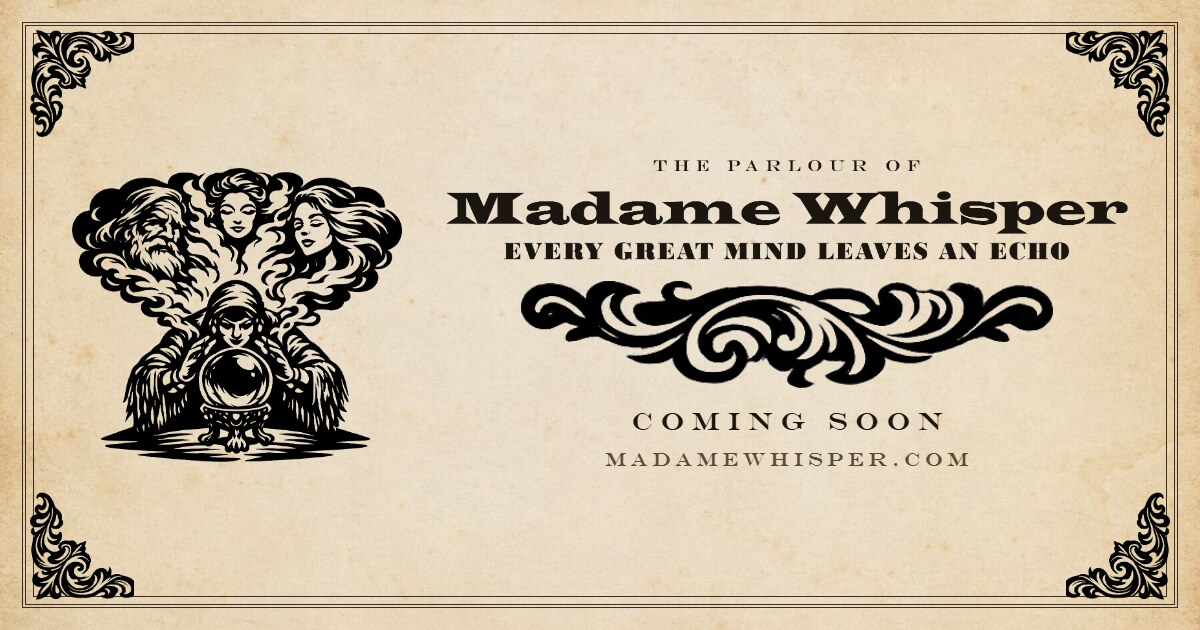
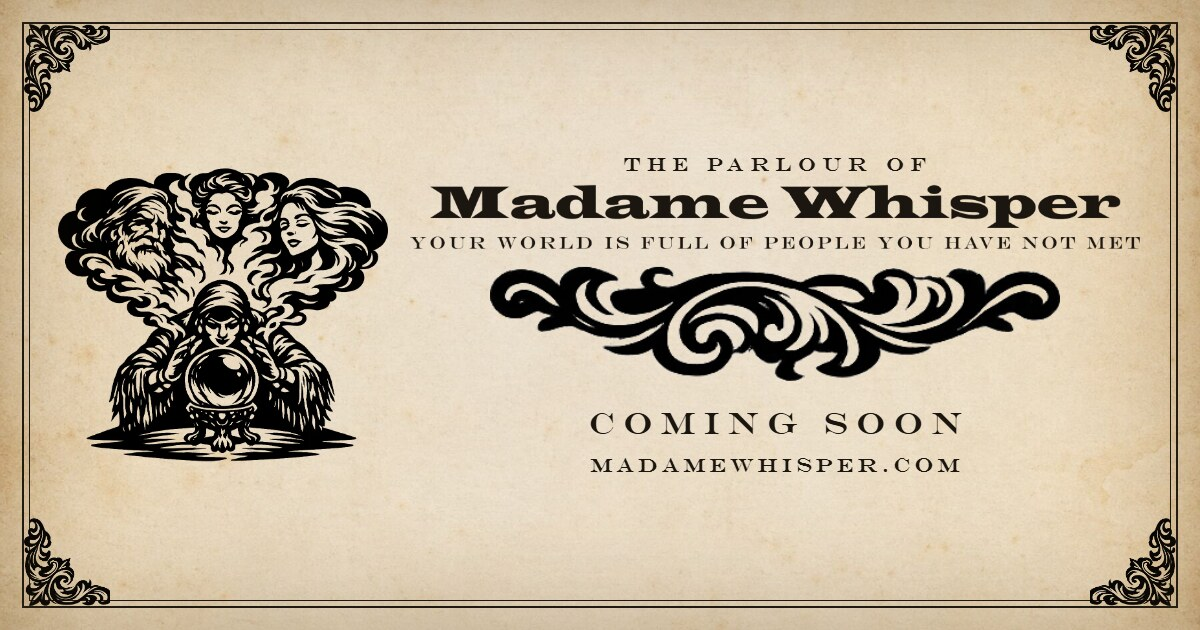
Reposition for game masters: fiction-first, dossier-led
Madame Whisper mediates reality and fantasy, not life and death. The
seance is the method, not the subject; the historical lane belongs to
Dead Thinkers. Retires "Name anyone. She will fetch them.", which
described both products at once.

- Masthead plate re-rendered: "Your world is full of people you have
  not met"
- Beats rewritten around the mechanism: plot the mind across one
  hundred dials, then derive the life that explains them
- Story panel targets the documented GM pain: the NPC who stops being
  a person and becomes you doing a voice
- Cabinet recast from seven historical philosophers to six original
  characters; philosopher cameos deleted
- New section "You Leave With the File" - the dossier at three depths,
  so the page sells a product rather than a conversation
- Disclosure now states she does not write your story or run your game
- OG card rebuilt with the new masthead; cache-buster bumped to ?3

Changed region(s): [[0.0, 0.0, 1.0, 1.0], [0.4933, 0.7238, 0.8017, 0.754]]

diff --git a/index.html b/index.html
@@ -20,21 +20,21 @@
     gtag('event', 'signup_complete', { method: 'kit', form_id: '9730404' });
   }
 </script>
-<title>Madame Whisper — Every great mind leaves an echo</title>
-<meta name="description" content="Name anyone. She will fetch them. Madame Whisper summons the great minds of history and fiction for a conversation you can argue with. Coming soon.">
+<title>Madame Whisper — She brings the fantasy to life</title>
+<meta name="description" content="For game masters and world builders. Summon a character who does not exist yet, interview them until they surprise you, and leave with a dossier your table will believe. Coming soon.">
 <meta property="og:title" content="Madame Whisper">
-<meta property="og:description" content="Name anyone. She will fetch them. Coming soon.">
+<meta property="og:description" content="Summon a character who does not exist yet. Interview them until they surprise you. Leave with the dossier. Coming soon.">
 <meta property="og:type" content="website">
 <meta property="og:url" content="https://madamewhisper.com/">
 <meta property="og:site_name" content="Madame Whisper">
-<meta property="og:image" content="https://madamewhisper.com/assets/og-card.jpg?1">
+<meta property="og:image" content="https://madamewhisper.com/assets/og-card.jpg?3">
 <meta property="og:image:width" content="1200">
 <meta property="og:image:height" content="630">
 <meta property="og:image:alt" content="Madame Whisper — a Victorian medium over her crystal ball, three faces rising in the smoke. Coming soon.">
 <meta name="twitter:card" content="summary_large_image">
 <meta name="twitter:title" content="Madame Whisper">
-<meta name="twitter:description" content="Name anyone. She will fetch them. Coming soon.">
-<meta name="twitter:image" content="https://madamewhisper.com/assets/og-card.jpg?1">
+<meta name="twitter:description" content="Summon a character who does not exist yet. Interview them until they surprise you. Leave with the dossier. Coming soon.">
+<meta name="twitter:image" content="https://madamewhisper.com/assets/og-card.jpg?3">
 <meta name="theme-color" content="#efe3c8">
 <link rel="icon" href="/favicon.ico?2" sizes="any">
 <link rel="icon" type="image/png" sizes="32x32" href="/assets/favicon-32.png?2">
@@ -114,6 +114,7 @@ img{max-width:100%;height:auto;display:block}
 .type--cabinet{width:min(100%,26rem)}
 .type--soon{width:min(100%,17rem)}
 .type--beats{width:min(100%,15rem)}
+.type--leavewith{width:min(100%,26rem)}
 
 .ornrule{margin:1.1rem auto;width:min(80%,22rem);mix-blend-mode:multiply}
 .ornrule--wide{width:min(90%,30rem)}
@@ -303,7 +304,7 @@ footer{
          alt="Welcome to the Parlour of">
     <img class="orb" src="assets/mark-orb-print.webp" alt="">
     <img class="type type--masthead" src="assets/type-masthead.webp"
-         alt="Madame Whisper — every great mind leaves an echo">
+         alt="Madame Whisper — your world is full of people you have not met">
     <img class="ornrule" src="assets/orn/rule-scroll.webp" alt="">
     <img class="hero" src="assets/hero-medium-print.webp"
          alt="A Victorian medium at her table, hands around a crystal ball, three faces forming in the rising smoke">
@@ -318,23 +319,24 @@ footer{
       <div class="beat">
         <span class="n">I</span>
         <div>
-          <h3>Name your guest</h3>
-          <p><em>“I should like to speak with Machiavelli.”</em></p>
+          <h3>Name someone who does not exist</h3>
+          <p><em>“The magistrate. The one who can be bought but not bribed.”</em></p>
         </div>
       </div>
       <div class="beat">
         <span class="n">II</span>
         <div>
           <h3>She parts the veil</h3>
-          <p>The smoke gathers. The Madame does her work. Your guest arrives.</p>
+          <p>The mind is plotted across one hundred dials — then the life that would
+             have produced it. Every wound answers for a trait, or it is not kept.</p>
         </div>
       </div>
       <div class="beat">
         <span class="n">III</span>
         <div>
-          <h3>Then you simply talk</h3>
-          <p>Argue with them. Scheme with them. Ask what they never wrote down.
-             They answer in their own voice — not from a script.</p>
+          <h3>Interview them until they surprise you</h3>
+          <p>Press him. Lie to him. Offer him money and watch him take offence.
+             Then leave with the file — and run him on Friday.</p>
         </div>
       </div>
     </div>
@@ -342,10 +344,12 @@ footer{
     <img class="ornrule ornrule--wide" src="assets/orn/rule-star.webp" alt="">
 
     <p class="story">
-      <span class="drop">Y</span>ou have read what they wrote. You have argued with them in your head
-      on the walk home. Madame Whisper is that argument with the other chair filled — by a Florentine
-      schemer, by a general who won before the fighting started, by a philosopher who will not let a
-      loose definition pass. Name anyone. She will fetch them.
+      <span class="drop">Y</span>ou have his name, his trade, and three lines of history. You know he
+      keeps the inn and waters the ale. Then on Friday your players ask him something you never
+      prepared for — and he stops being a man and becomes you, doing a voice. Every game master has
+      sat a character down and interviewed them, and every one has done it alone, in both chairs.
+      Madame Whisper is that interview with the other chair filled. You will never again run a
+      character who sounds like you.
     </p>
   </section>
 
@@ -358,66 +362,101 @@ footer{
 
     <div class="cast">
       <div class="mind">
-        <figure><img src="assets/cameo/aristotle.webp" alt="Aristotle"></figure>
-        <h4>Aristotle</h4>
-        <div class="where">Athens · 335 BC</div>
-        <p>Bring him a question you think you have settled. He will take it apart into the four
-           things you actually meant.</p>
+        <figure><img src="assets/cameo/snodd.webp" alt="Lord Snodd"></figure>
+        <h4>Lord Snodd</h4>
+        <div class="where">the estate, and the debt against it</div>
+        <p>He will receive you courteously and concede nothing. Ask him what the title cost his
+           father, and watch him decide how much of it you are owed.</p>
       </div>
 
       <div class="mind">
-        <figure><img src="assets/cameo/machiavelli.webp" alt="Niccolò Machiavelli"></figure>
-        <h4>Niccolò Machiavelli</h4>
-        <div class="where">Florence · 1513</div>
-        <p>Argue power with the man who wrote the book on it. He will not flatter you, and he will
-           not pretend the question is easy.</p>
+        <figure><img src="assets/cameo/vess.webp" alt="Alcyne Vess"></figure>
+        <h4>Alcyne Vess</h4>
+        <div class="where">warden of the barrow — died first, kept the post</div>
+        <p>She has guarded the same door for four hundred years and remembers every party that
+           came through it. She will ask after people you have never heard of.</p>
       </div>
 
       <div class="mind">
-        <figure><img src="assets/cameo/suntzu.webp" alt="Sun Tzu"></figure>
-        <h4>Sun Tzu</h4>
-        <div class="where">The state of Wu · 5th c. BC</div>
-        <p>Bring him a conflict — a campaign, a rivalry, a negotiation. He will show you where it was
-           decided, long before the fighting.</p>
+        <figure><img src="assets/cameo/ash.webp" alt="Corwin Ash"></figure>
+        <h4>Corwin Ash</h4>
+        <div class="where">the forge on Cutler's Row</div>
+        <p>He shoes the Watch's horses, so he hears everything and repeats none of it. Offer him
+           coin and he will finish the shoe before he answers you.</p>
       </div>
 
       <div class="mind">
-        <figure><img src="assets/cameo/plato.webp" alt="Plato"></figure>
-        <h4>Plato of Athens</h4>
-        <div class="where">The Academy · 380 BC</div>
-        <p>Ask him what a thing really is. Then discover you have agreed to something you did not
-           intend, three questions ago.</p>
+        <figure><img src="assets/cameo/dain.webp" alt="Magistrate Iver Dain"></figure>
+        <h4>Magistrate Iver Dain</h4>
+        <div class="where">the Assizes — buyable, not bribable</div>
+        <p>There is a price, and it is never money. Find what he wants and the law bends; offer
+           him a purse and you will meet the other magistrate entirely.</p>
       </div>
 
       <div class="mind">
-        <figure><img src="assets/cameo/alexander.webp" alt="Alexander the Great"></figure>
-        <h4>Alexander the Great</h4>
-        <div class="where">Babylon · 323 BC</div>
-        <p>He had the world at thirty and no idea what to do next. Ask him whether it was worth
-           what it cost.</p>
+        <figure><img src="assets/cameo/cole.webp" alt="Sister Renna Cole"></figure>
+        <h4>Sister Renna Cole</h4>
+        <div class="where">the crypt beneath St. Ilde's</div>
+        <p>She knows what is down there and has not told the diocese. Ask her why she stays, and
+           she will tell you it is not faith.</p>
       </div>
 
       <div class="mind">
-        <figure><img src="assets/cameo/franklin.webp" alt="Benjamin Franklin"></figure>
-        <h4>Benjamin Franklin</h4>
-        <div class="where">Philadelphia · 1776</div>
-        <p>Printer, diplomat, and the most useful man in any room. Ask him how to get something
-           difficult agreed to.</p>
-      </div>
-
-      <div class="mind">
-        <figure><img src="assets/cameo/jung.webp" alt="Carl Jung"></figure>
-        <h4>Carl Jung</h4>
-        <div class="where">Küsnacht · 1935</div>
-        <p>Tell him the dream you still remember. He will want to know what you have refused to
-           look at.</p>
+        <figure><img src="assets/cameo/frayne.webp" alt="Elsbeth Frayne"></figure>
+        <h4>Elsbeth Frayne</h4>
+        <div class="where">keeps the tallies, remembers what was promised</div>
+        <p>Everyone tells her the truth because she only writes numbers down. She knows who owes
+           whom, and she has known for years.</p>
       </div>
     </div>
 
     <div class="more">
       <img src="assets/orn/manicule.webp" alt="">
-      <span>…and anyone else you care to name.</span>
+      <span>…and whoever else your world is waiting on.</span>
       <img class="flip" src="assets/orn/manicule.webp" alt="">
+    </div>
+  </section>
+
+  <!-- ══ what you leave with ══ -->
+  <section id="dossier">
+    <img class="ornrule ornrule--wide" src="assets/orn/rule-star2.webp" alt="">
+    <div class="sect-head">
+      <img class="type type--leavewith" src="assets/type-leavewith.webp"
+           alt="And when it is done — you leave with the file">
+    </div>
+
+    <p class="story">
+      <span class="drop">S</span>he does not hand you a chat log. She hands you a dossier: who he is,
+      what he wants, what it cost him, how he speaks, who he would betray, and precisely how he comes
+      apart when your players lie to him. Written in his own voice, and unreliable in the places a
+      man is unreliable about himself.
+    </p>
+
+    <div class="beats">
+      <div class="beat">
+        <span class="n">I</span>
+        <div>
+          <h3>The Calling Card</h3>
+          <p>One page. What he wants, what he fears, how he sounds, and the single thing to
+             remember. This is what sits at your elbow on Friday.</p>
+        </div>
+      </div>
+      <div class="beat">
+        <span class="n">II</span>
+        <div>
+          <h3>The Standing File</h3>
+          <p>For anyone your players will meet twice. His history, his allies, his leverage, and
+             the wounds that explain why he is like this.</p>
+        </div>
+      </div>
+      <div class="beat">
+        <span class="n">III</span>
+        <div>
+          <h3>The Whole Bible</h3>
+          <p>For the ones your campaign turns on. Ask him about his world and keep asking, and he
+             will write it — his politics, his faith, his enemies, his dead.</p>
+        </div>
+      </div>
     </div>
   </section>
 
@@ -455,15 +494,16 @@ footer{
 
     <div class="pull">
       <img src="assets/orn/star8.webp" alt="">
-      <span>“The dead are gone.<br>Their ideas are not.”</span>
+      <span>“He was always in there.<br>He simply had not spoken.”</span>
       <img src="assets/orn/star8.webp" alt="">
     </div>
   </section>
 
   <footer>
     <p class="disclosure">
-      Madame Whisper makes no claim to raise the dead. Every guest is an AI reconstruction, built
-      from what they actually wrote and said — an echo, not a resurrection.
+      Madame Whisper makes no claim to true divination. Every guest is an AI reconstruction, plotted
+      across one hundred axes of mind — a character given a voice, not a spirit given a body. She
+      does not write your story and she does not run your game. She hands you the file.
     </p>
     <p class="engine">
       Built on the persona engine behind <a href="https://deliberon.com">Deliberon</a>.
